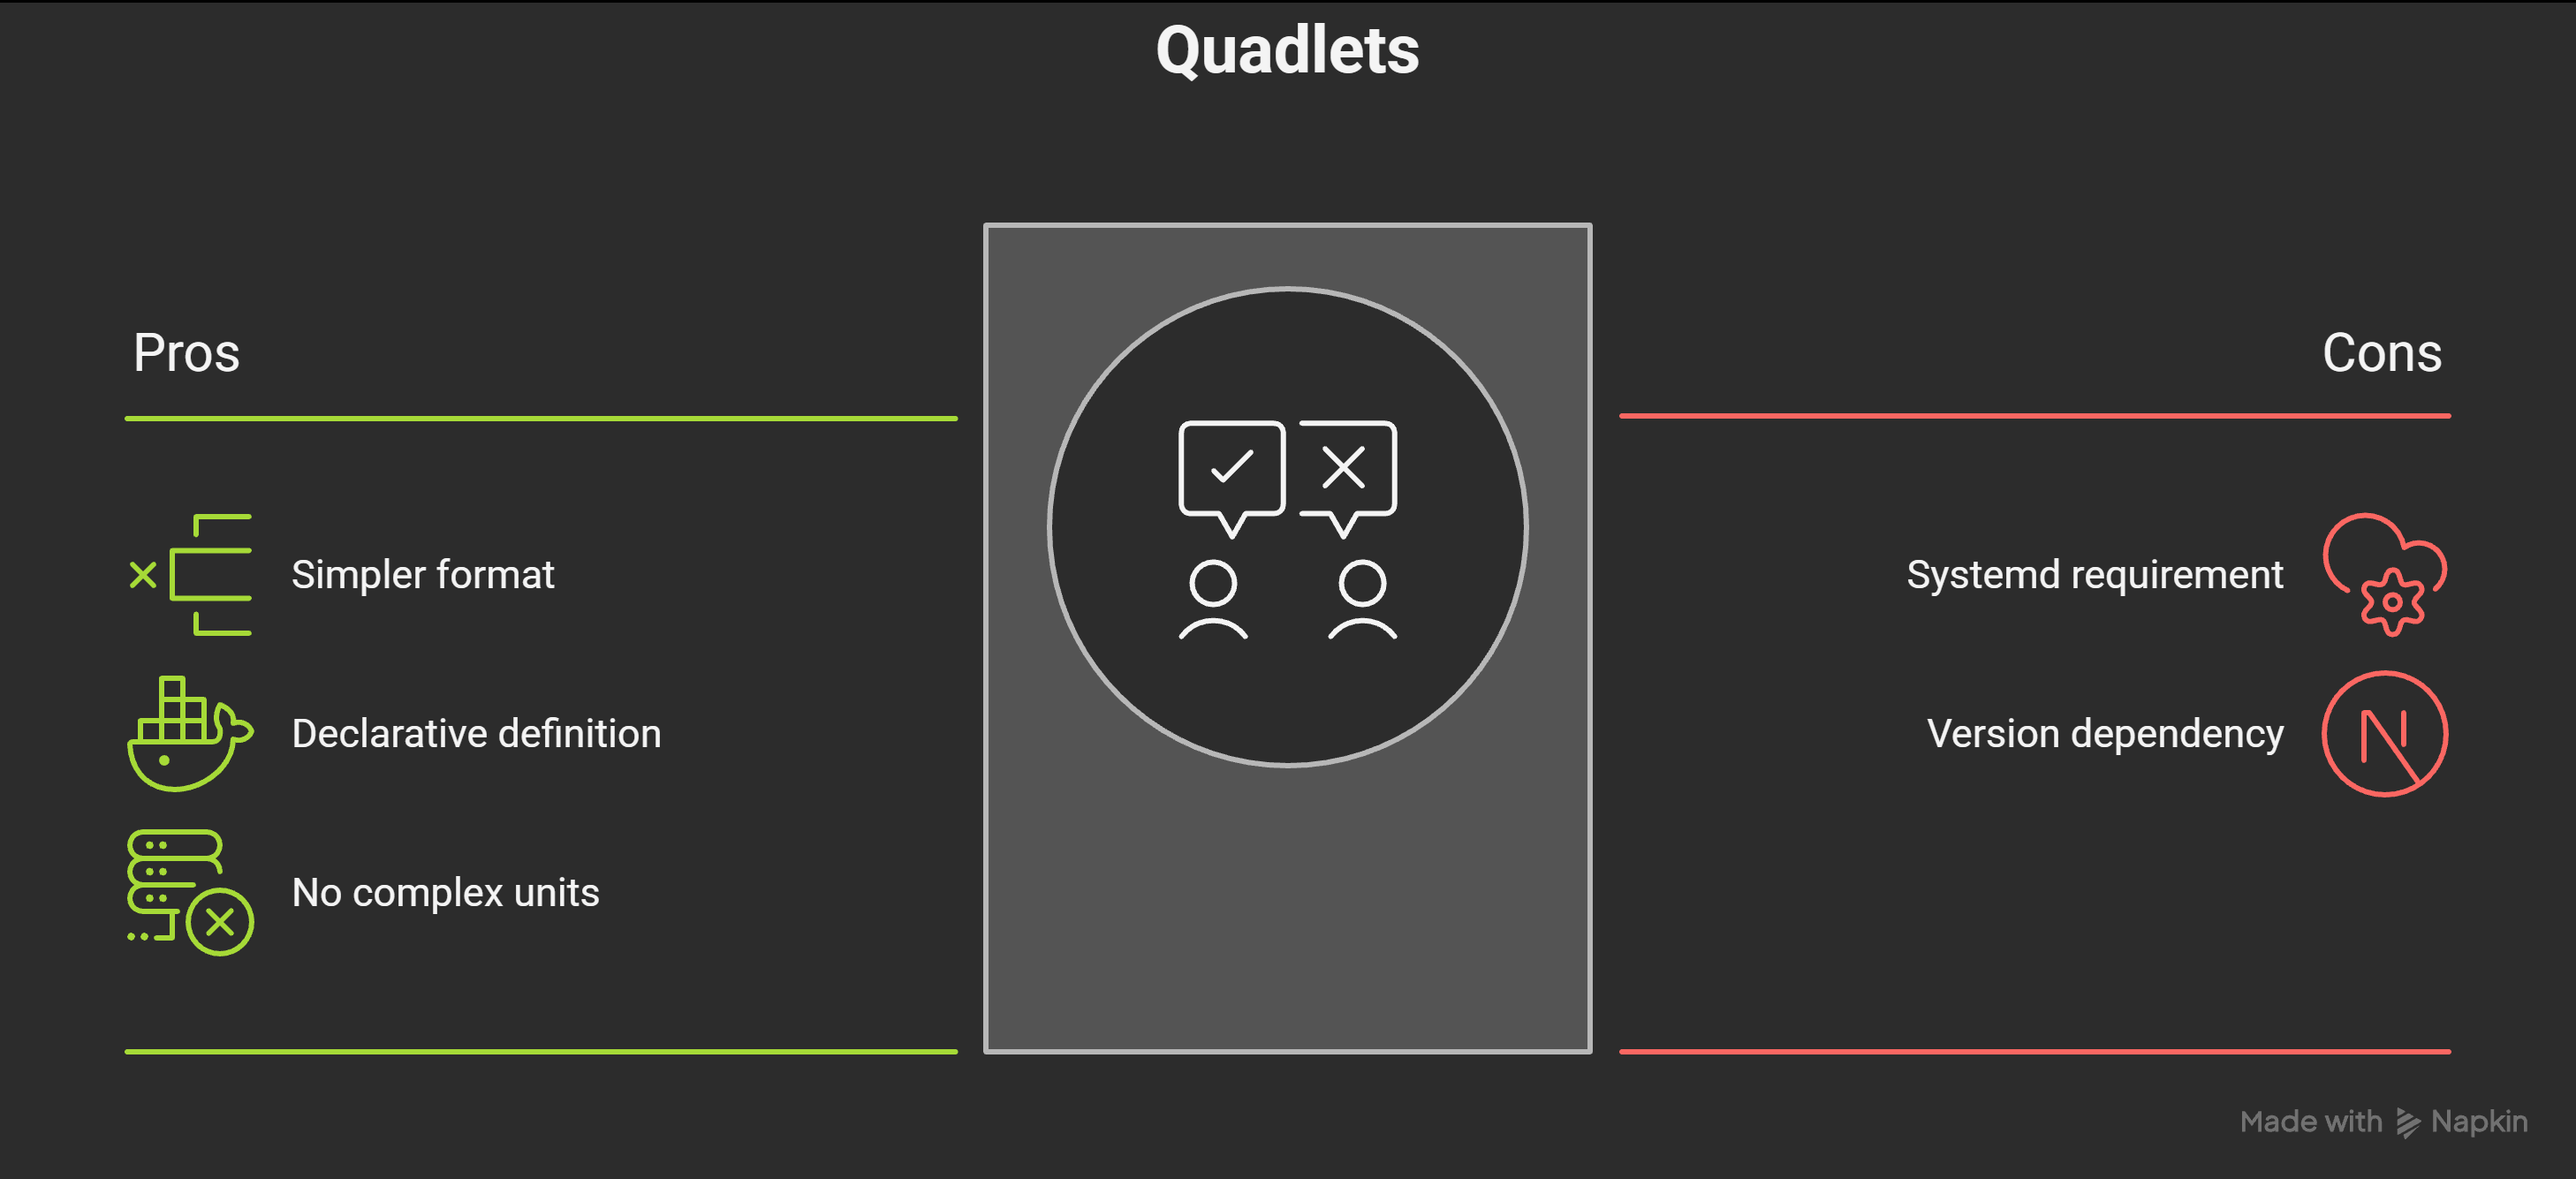
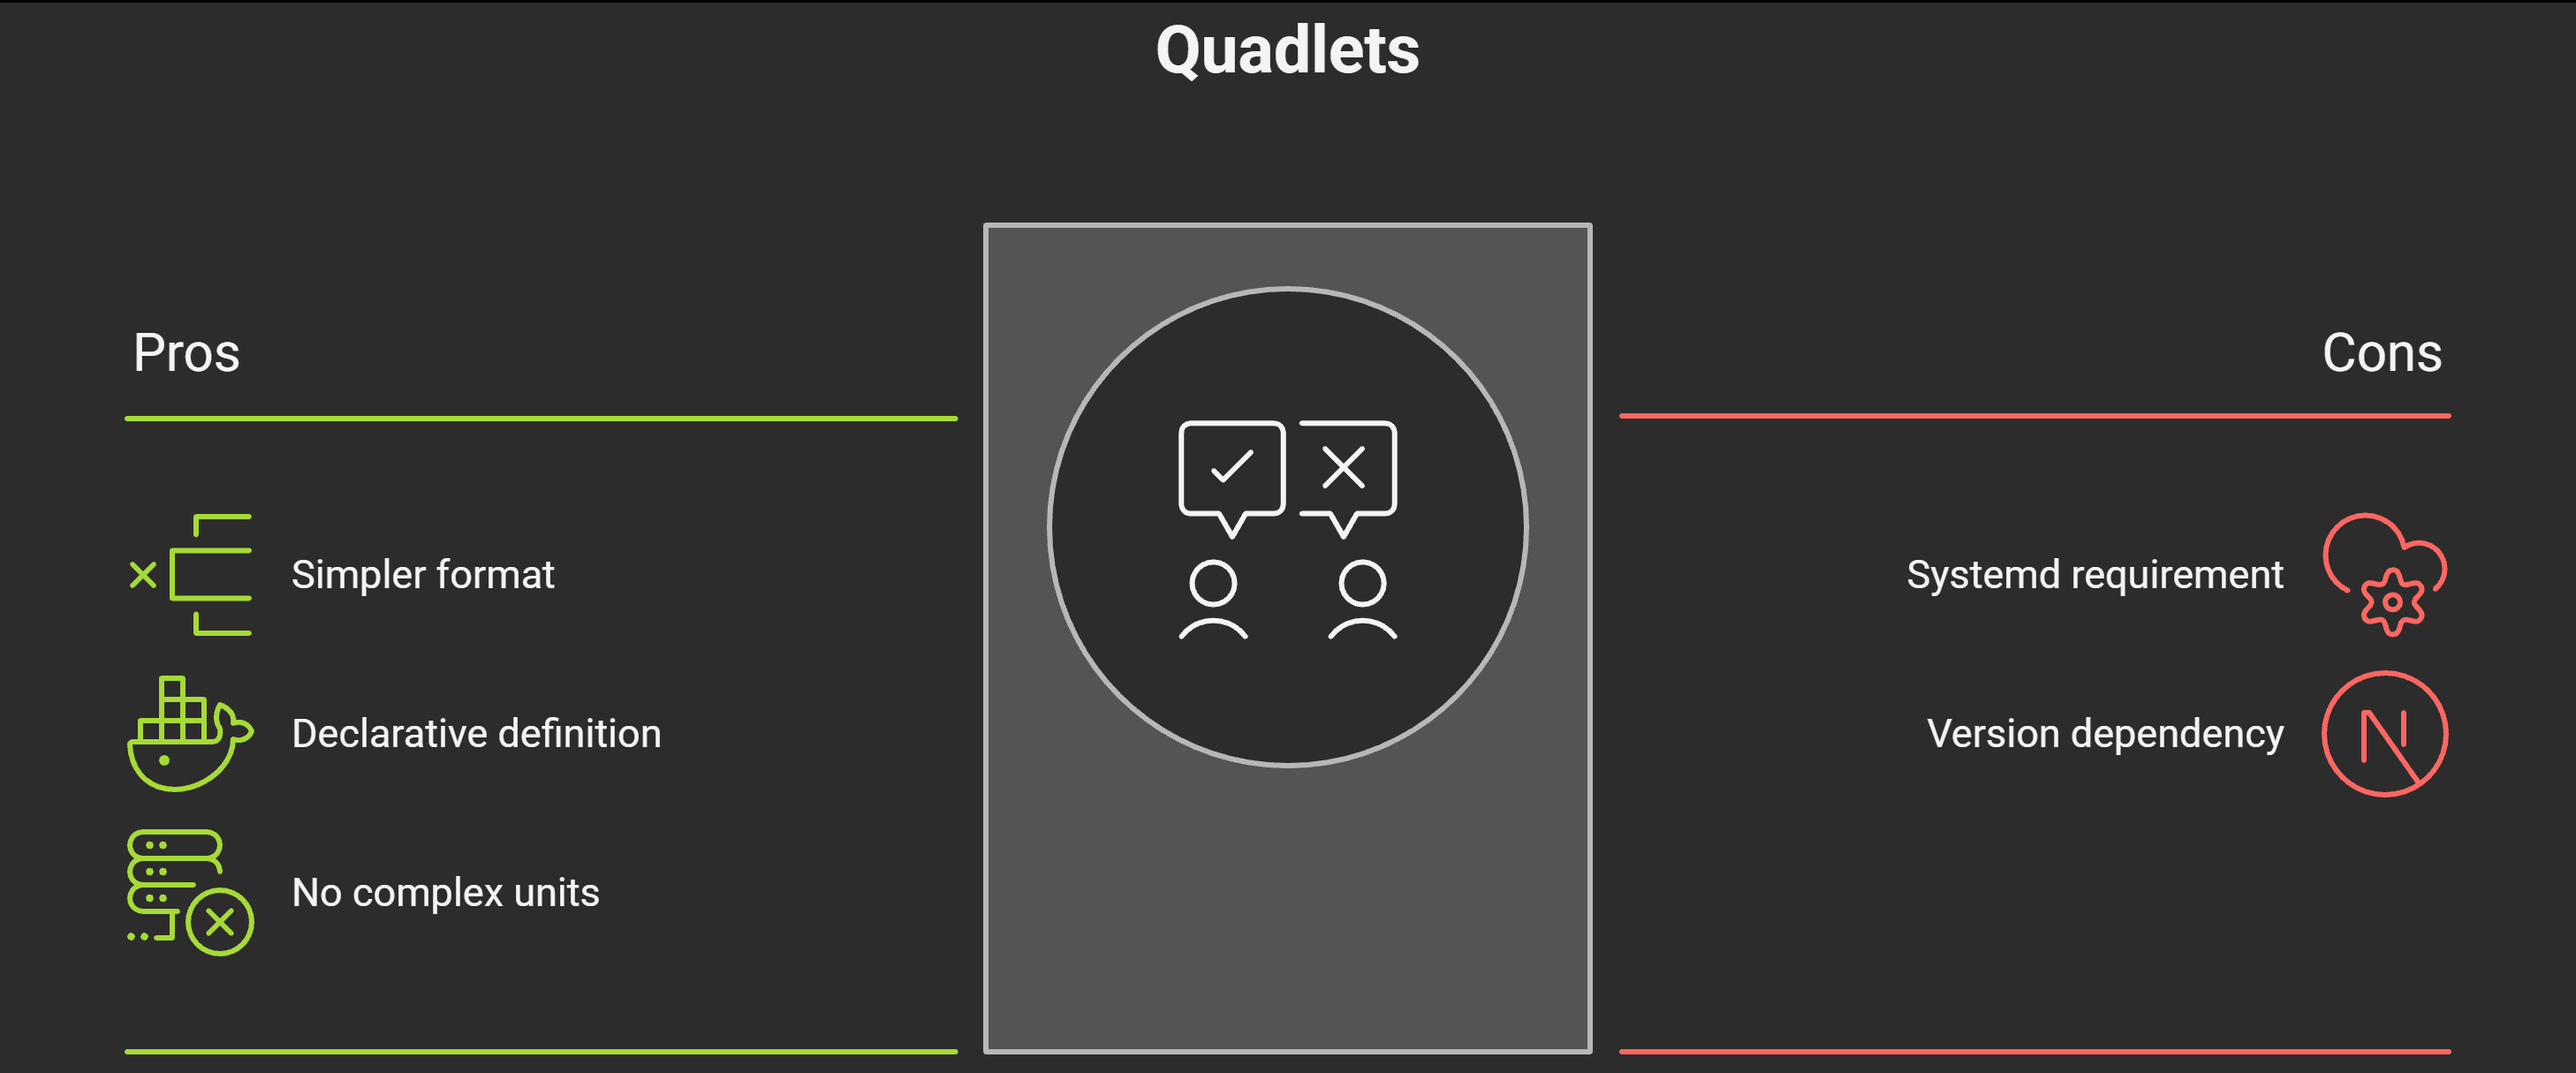
small modifications

diff --git a/README.md b/README.md
@@ -6599,6 +6599,7 @@ sudo systemctl status container_www
 ````
 
 ###### Running Containers with Podman Quadlets
+----------------------------------------------
 
 Podman introduced **Quadlets** as a modern way to manage containers under systemd. While the traditional `podman generate systemd` command still works, it is **deprecated** in favor of Quadlets, which provide a cleaner, more maintainable approach.
 
@@ -6633,6 +6634,12 @@ or
 /etc/containers/systemd/users/$(UID)
 or
 /etc/containers/systemd/users/
+```
+
+**Root containers**
+
+```text
+/etc/containers/systemd/
 ```
 
 Examples:
@@ -6682,12 +6689,6 @@ sudo vim /etc/containers/systemd/users/1002/mysql.container
 * This is useful for **multi-user systems** where admins want to manage user containers centrally.
 
 ---
-
-**Root containers**
-
-```text
-/etc/containers/systemd/
-```
 
 
 Prerequisites
